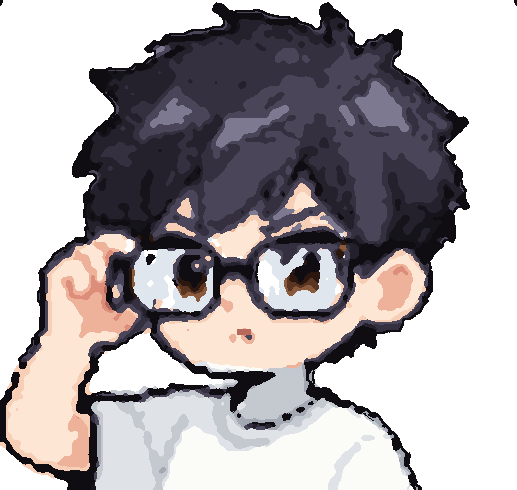
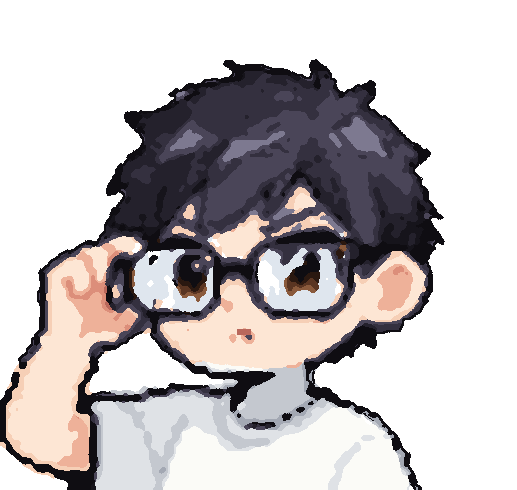
Portrait: less hair volume

Changed region(s): [[0.0928, 0.0, 0.9284, 0.551], [0.9903, 0.0, 1.0, 0.0306], [0.2785, 0.3367, 0.3095, 0.3673]]

diff --git a/index.html b/index.html
@@ -109,7 +109,7 @@
 <section class="block" id="about">
   <h2 class="heading">About me</h2>
   <div class="player">
-    <div class="portrait"><img src="assets/me.png?v=8" alt="Pixel art portrait of Gabriel Kamura: black hair, white sweatshirt, lifting his glasses with one hand" width="517" height="490"></div>
+    <div class="portrait"><img src="assets/me.png?v=9" alt="Pixel art portrait of Gabriel Kamura: black hair, white sweatshirt, lifting his glasses with one hand" width="517" height="490"></div>
     <div class="stats">
       <div class="top">
         <span>Player 1</span>
